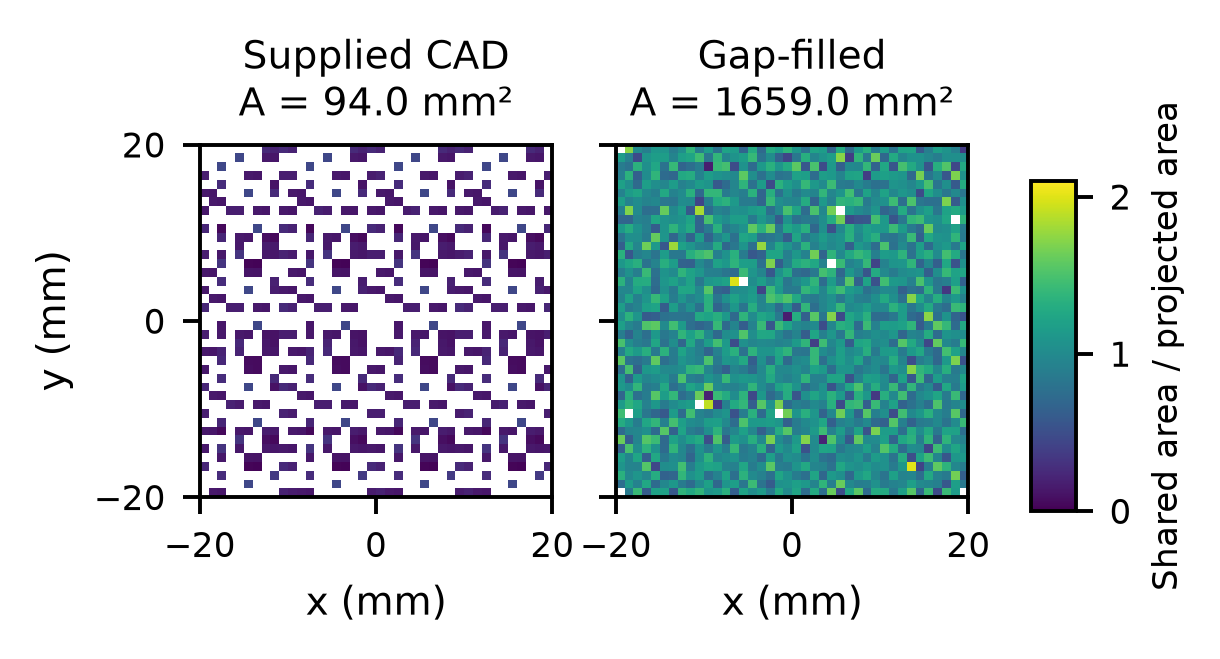
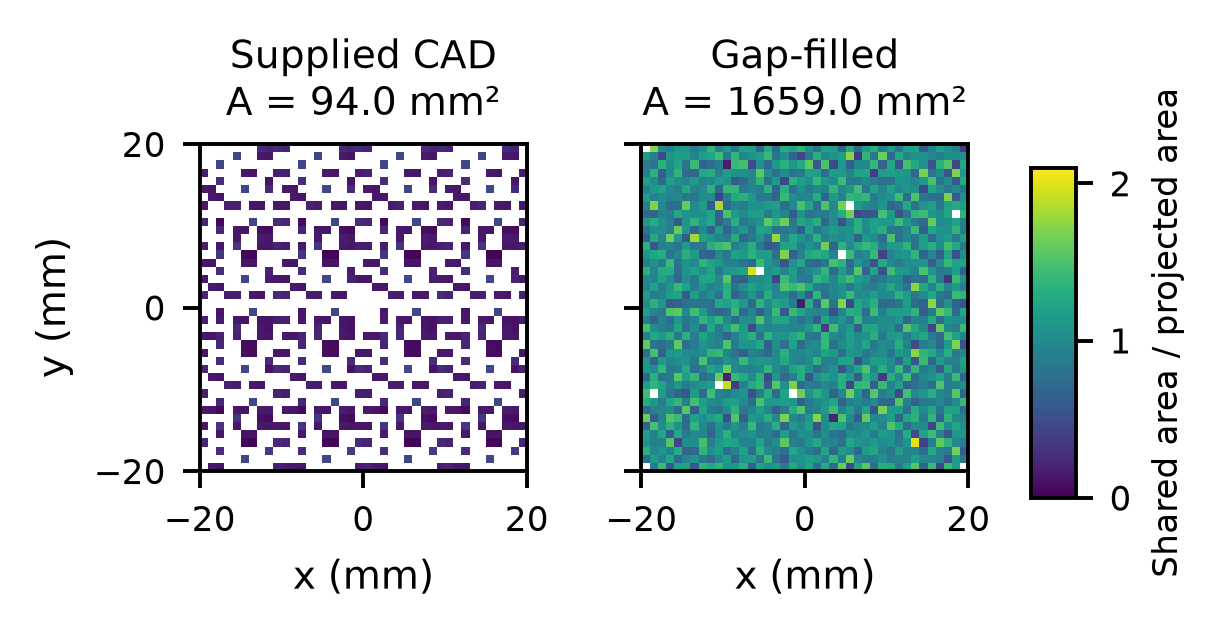
Clarify nominal architecture results and verify contact figure spacing

diff --git a/advanced/build_manuscript.py b/advanced/build_manuscript.py
@@ -114,6 +114,9 @@ def main():
         values=[a['wire_p95_absolute_principal_strain'] for a in rows if a['angle_deg'] is not None]
         ranges.append(f'{design.lower()}: {100*min(values):.3g}–{100*max(values):.3g}%')
     para('At nominal skin and adhesive moduli in the filled-contact geometry, the sampled wire strain percentiles span '+ '; '.join(ranges)+'. Figure 3 shows the directional response at nominal adhesive modulus, with bands spanning the selected skin stiffnesses. The bands represent parameter dependence, not statistical confidence intervals or a patient population.')
+    nominal_max={design:max_direction(rows,'wire_p95_absolute_principal_strain')['wire_p95_absolute_principal_strain']
+                 for design,rows in result['filled_contact_nominal'].items()}
+    para(f'Relative to uniform support at nominal materials, the sampled maximum wire strain percentile changes by {100*(nominal_max["Single"]/nominal_max["Uniform"]-1):+.1f}% for the single-compliant architecture and {100*(nominal_max["Graded"]/nominal_max["Uniform"]-1):+.1f}% for the graded architecture. The single-to-graded change is {100*(nominal_max["Graded"]/nominal_max["Single"]-1):+.2f}%; its magnitude must be judged against the refinement changes in Table 2.')
     figure('Directional_Wire_Strain','Figure 3. Wire absolute principal-strain 95th percentile versus extension direction for filled contact and adhesive modulus 0.10 MPa. Lines use skin modulus 0.20 MPa; shading encloses the three sampled skin-modulus curves at 0.10, 0.20, and 0.50 MPa. The end point repeats the equivalent 0° direction. All curves use 1% prescribed principal extension.')
     extra_ranges=[]
     for label,description in [('Equibiaxial_0.5percent','0.5% equal biaxial extension'),
